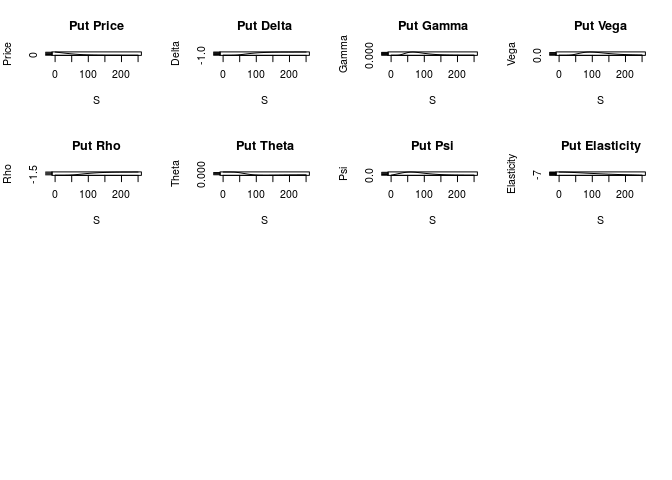
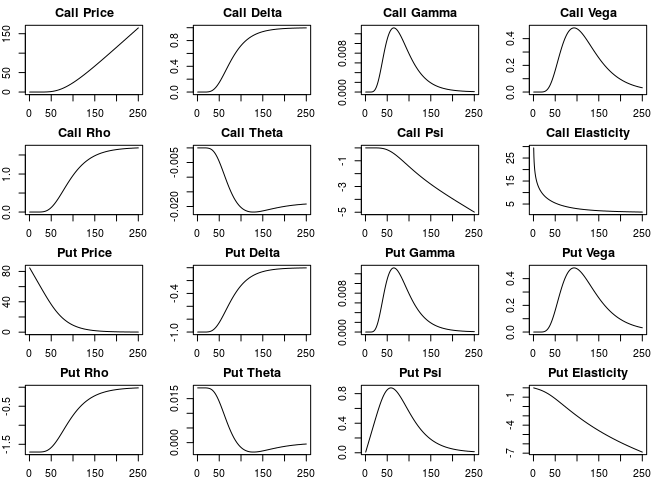
added readme files

diff --git a/README.md b/README.md
@@ -54,15 +54,16 @@ will do the same for both calls and puts simultanteously. The delta values for t
 My favorite example, which you should run, is this:
 
 ``` r
-k <- 100; v <- 0.30; r <- 0.08; tt <- 2; d <- 0
+k <- 100; r <- 0.08; v <- 0.30; tt <- 2; d <- 0
 S <- seq(.5, 250, by=.5)
-x[[1]] <- greeks(bscall(S, k, v, r, tt, d))
-x[[2]] <- greeks(bsput(S, k, v, r, tt, d))
-txt <- c('Call', 'Put')
+Call <- greeks(bscall(S, k, v, r, tt, d))
+Put <- greeks(bsput(S, k, v, r, tt, d))
+y <- list(Call=Call, Put=Put)
 par(mfrow=c(4, 4))  ## create a 4x4 plot
-for (i in 1:2) {
-    for (j in rownames(x[[i]])) {  ## loop over greeks
-        plot(S, x[[i]][j, ], main=paste(txt[i], j), ylab=j, type='l')
+par(mar=c(2,2,2,2))
+for (i in names(y)) {
+    for (j in rownames(y[[i]])) {  ## loop over greeks
+        plot(S, y[[i]][j, ], main=paste(i, j), ylab=j, type='l')
     }
 }
 ```
